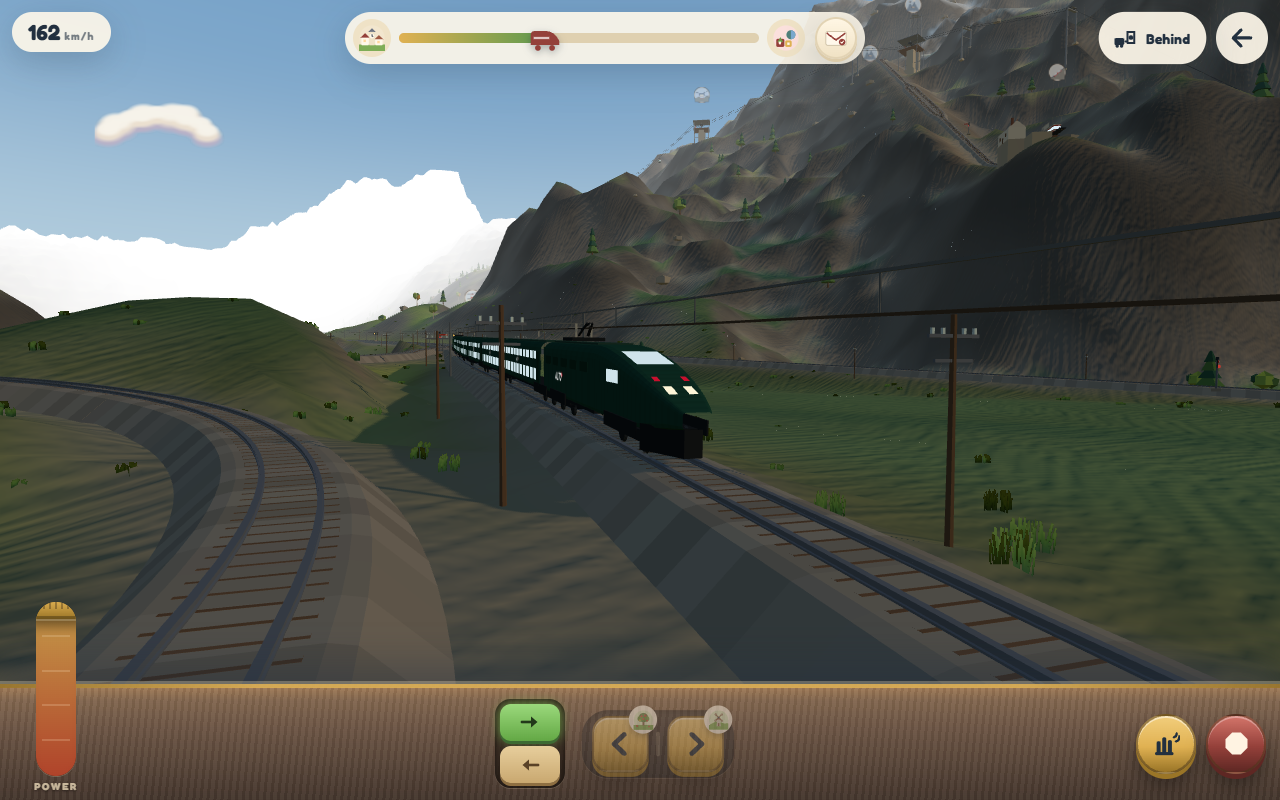
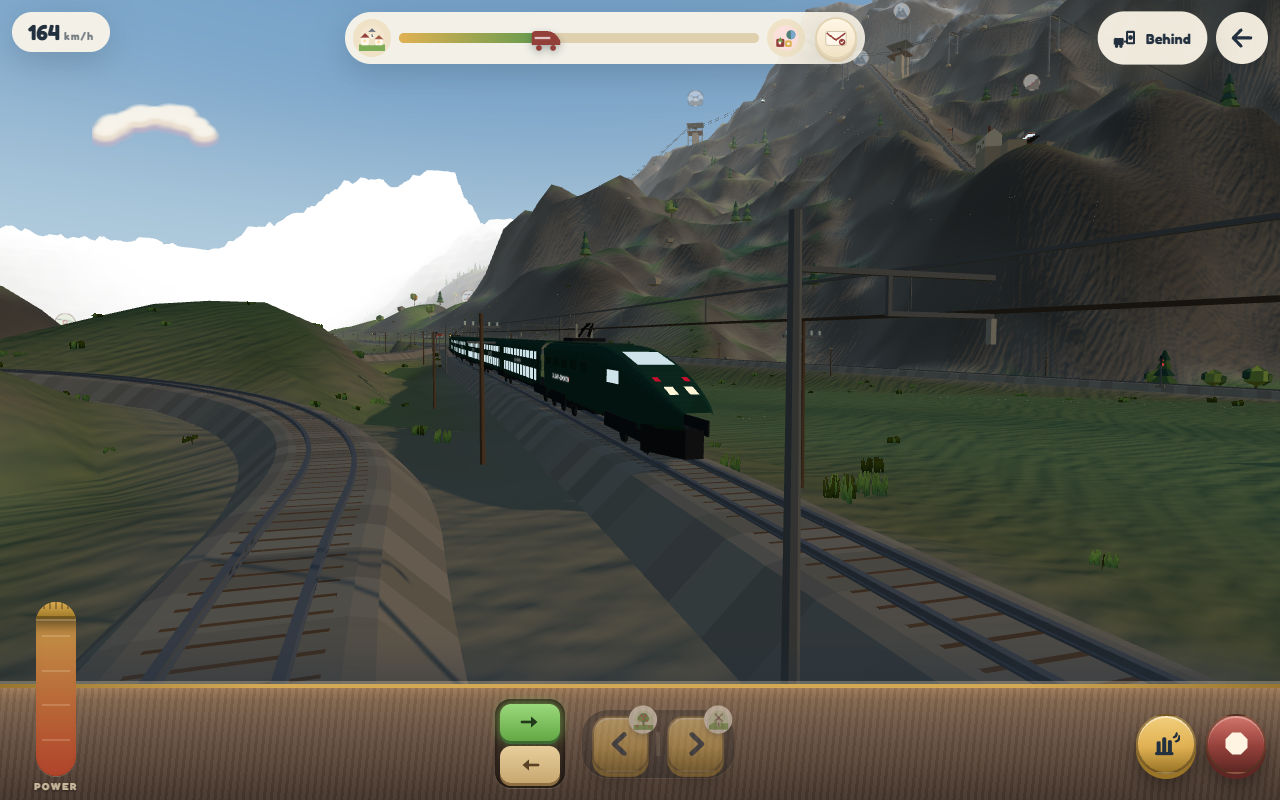
Bullet train: the Calgary–Edmonton, 320 km/h, closed body ends, depot facing
Renamed from Alto to Calgary–Edmonton on every flank, in the depot and the
README. The body loft's own end caps were wound inward for this profile, so
the flat rear of each power car was see-through; capped again with the
winding checked against the way each end faces. Service speed raised to the
Avelia's 320 km/h, with the brake, pull, drag and curve tolerance set to
match, and the sheep hold range now scales with the braking distance. In the
depot the power cars face away from the coaches, and the mirror applies to
them alone.

diff --git a/index.html b/index.html
@@ -7709,10 +7709,11 @@ class Props {
 const BULLET = {
   power: 22.15, end: 20.8, mid: 18.7, width: 2.9, roof: 4.1, floor: 0.95,
   nose: 9.5, wheel: 0.5, axle: 1.5, pbogie: 6.4,
-  vmax: 72,               // m/s — 259 km/h on the straights; the bends set the rest
-  pull: 1.3, brake: 4.2, brakeRate: 2.2, latAccel: 5.0,
+  vmax: 88.9,             // m/s — 320 km/h, the Avelia's service speed; the bends set the rest
+  pull: 1.8, brake: 4.5, brakeRate: 3.0, latAccel: 12.0,
   green: '#1C4A3C', dark: '#143A2E', roofC: '#2A4A40', frame: '#22262B', win: '#CFE3EA',
 };
+const BULLET_NAME = 'CALGARY–EDMONTON';
 const BULLET_CONSIST = ['bpower', 'bend', 'bmid', 'bmid', 'bmid', 'bmid', 'bend', 'bpower'];
 const BULLET_TYPES = {
   bpower: { name: 'Power car', len: BULLET.power },
@@ -7754,6 +7755,20 @@ function bulletBody(mb, L, col, nose) {
     profAt.push(bulletSection(w, f, r));
   }
   mb.extrudeVar(path, k => profAt[k], col, k => 0.94 + 0.08 * (k % 2));
+  /* The loft caps its ends for a clockwise profile; this profile is wound the
+     other way, so cap them again here with the winding checked against the
+     way each end faces — the rear end, flat and facing the coaches, was open. */
+  const cap = (k, dirZ) => {
+    const ring = profAt[k].map(p => new THREE.Vector3(-p[0], p[1], path[k].z));
+    const ctr = new THREE.Vector3(0, (BULLET.floor + BULLET.roof) / 2, path[k].z);
+    const n = new THREE.Vector3().crossVectors(ring[1].clone().sub(ctr), ring[2].clone().sub(ctr));
+    const flip = n.z * dirZ < 0;
+    for (let i = 0; i < ring.length; i++) {
+      const j = (i + 1) % ring.length;
+      if (flip) mb.quad(ctr, ring[i], ring[j], ring[j], col); else mb.quad(ctr, ring[j], ring[i], ring[i], col);
+    }
+  };
+  cap(0, -1); cap(N, 1);
 }
 
 /* a square rod from a to b, for the pantograph arms */
@@ -7837,7 +7852,7 @@ function buildBulletCar(type, opts = {}) {
     mb.box(0, headY, pz - 0.6, 1.5, 0.06, 0.25, frameC, 0);
     mb.box(0, headY + 0.045, pz - 0.6, 1.5, 0.03, 0.09, new THREE.Color('#B0B4B8'), 0);
     // the wordmark on each flank
-    for (const s of [-1, 1]) marks.push({ x: s * (W + 0.015), y: F + 1.2, z: -L / 2 + 5.0, side: s, w: 2.4 });
+    for (const s of [-1, 1]) marks.push({ x: s * (W + 0.015), y: F + 1.2, z: -L / 2 + 5.4, side: s, w: 5.2 });
   } else {
     // double deck: two bands of windows each side, pillars between, doors at the ends
     for (const s of [-1, 1]) {
@@ -7848,7 +7863,7 @@ function buildBulletCar(type, opts = {}) {
         for (let z = -L / 2 + 1.6; z <= L / 2 - 1.6 + 1e-6; z += 1.65) mb.box(x, (y0 + y1) / 2, z, 0.05, y1 - y0 + 0.08, 0.16, green, 0);
       }
       for (const z of [-L / 2 + 0.85, L / 2 - 0.85]) mb.box(x, F + 1.3, z, 0.05, 2.3, 0.95, dark, 0);
-      marks.push({ x, y: F + 1.63, z: 0, side: s, w: 1.6 });
+      marks.push({ x, y: F + 1.6, z: 0, side: s, w: 3.8 });
     }
     // the bogie at the forward pivot is shared with the car in front
     bulletBogie(mb, L / 2, frameC); bogies.push(L / 2);
@@ -7859,17 +7874,17 @@ function buildBulletCar(type, opts = {}) {
   return { mb, glow, marks, len: L, wb: power ? 2 * BULLET.pbogie : L, bogies };
 }
 
-/* "ALTO" with its maple leaf, drawn once to a canvas and used on every flank */
+/* the name, with the maple leaf, drawn once to a canvas and used on every flank */
 let _wordmarkTex = null;
 function bulletWordmarkTexture() {
   if (_wordmarkTex) return _wordmarkTex;
-  const cv = document.createElement('canvas'); cv.width = 512; cv.height = 192;
+  const cv = document.createElement('canvas'); cv.width = 1280; cv.height = 160;
   const g = cv.getContext('2d');
-  g.clearRect(0, 0, 512, 192);
+  g.clearRect(0, 0, 1280, 160);
   g.fillStyle = '#FFFFFF'; g.textBaseline = 'middle'; g.textAlign = 'left';
-  g.font = 'italic 900 150px Fredoka, "Arial Black", system-ui, sans-serif';
-  g.fillText('ALTO', 18, 100);
-  const lx = 446, ly = 54, s = 1.9;
+  g.font = 'italic 900 112px Fredoka, "Arial Black", system-ui, sans-serif';
+  g.fillText(BULLET_NAME, 16, 84);
+  const lx = 1205, ly = 56, s = 1.55;
   g.fillStyle = '#C8102E'; g.beginPath();
   const leaf = [[0, -22], [4, -10], [12, -13], [9, -1], [20, -3], [17, 5], [23, 9], [9, 17], [11, 24], [2, 21], [2, 32], [-2, 32], [-2, 21], [-11, 24], [-9, 17], [-23, 9], [-17, 5], [-20, -3], [-9, -1], [-12, -13], [-4, -10]];
   leaf.forEach(([x, y], i) => i ? g.lineTo(lx + x * s, ly + y * s) : g.moveTo(lx + x * s, ly + y * s));
@@ -7879,10 +7894,12 @@ function bulletWordmarkTexture() {
 }
 
 /* the depot's side view of one car; px/py map metres along and up to the canvas */
-function drawBulletCar(g, type, px, py, scale) {
+function drawBulletCar(g, type, px0, py, scale, flip) {
+  const px = flip ? v => px0(-v) : px0;
   const green = BULLET.green, dark = BULLET.dark, frame = BULLET.frame, win = BULLET.win;
   const L = BULLET_TYPES[type].len, HL = L / 2, F = BULLET.floor, R = BULLET.roof;
-  const rr = (x, y, w, h, r, fill) => { g.beginPath(); if (g.roundRect) g.roundRect(x, y, w, h, r); else g.rect(x, y, w, h); g.fillStyle = fill; g.fill(); };
+  // x is px(left edge in metres); mirrored, that is the right edge
+  const rr = (x, y, w, h, r, fill) => { if (flip) x -= w; g.beginPath(); if (g.roundRect) g.roundRect(x, y, w, h, r); else g.rect(x, y, w, h); g.fillStyle = fill; g.fill(); };
   const wheel = (z) => { g.beginPath(); g.arc(px(z), py(BULLET.wheel), BULLET.wheel * scale, 0, TAU); g.fillStyle = dark; g.fill(); g.beginPath(); g.arc(px(z), py(BULLET.wheel), BULLET.wheel * 0.55 * scale, 0, TAU); g.fillStyle = '#6E7583'; g.fill(); };
   const bog = type === 'bpower' ? [-BULLET.pbogie, BULLET.pbogie] : type === 'bend' ? [-HL + 0.4, HL - 0.4] : [HL - 0.4];
   for (const b of bog) { rr(px(b - 1.9), py(1.0), 3.8 * scale, 0.5 * scale, 2, frame); for (const a of [-BULLET.axle, BULLET.axle]) wheel(b + a); }
@@ -7904,9 +7921,9 @@ function drawBulletCar(g, type, px, py, scale) {
     g.strokeStyle = frame; g.lineWidth = Math.max(1.5, 0.09 * scale);
     g.beginPath(); g.moveTo(px(-HL + 5.0), py(R + 0.3)); g.lineTo(px(-HL + 6.5), py(R + 1.1)); g.lineTo(px(-HL + 4.4), py(R + 1.85)); g.stroke();
     rr(px(-HL + 3.6), py(R + 1.9), 1.5 * scale, 0.08 * scale, 1, frame);
-    g.fillStyle = '#FFF6D8'; g.fillRect(px(HL - 1.9), py(F + 1.55), 0.7 * scale, 0.25 * scale);
-    g.fillStyle = '#fff'; g.font = 'italic 900 ' + Math.max(8, 0.95 * scale) + 'px Fredoka, "Arial Black", sans-serif'; g.textBaseline = 'middle';
-    g.fillText('ALTO', px(-HL + 3.4), py(F + 1.2));
+    rr(px(HL - 1.9), py(F + 1.55), 0.7 * scale, 0.25 * scale, 1, '#FFF6D8');
+    g.fillStyle = '#fff'; g.font = 'italic 900 ' + Math.max(7, 0.5 * scale) + 'px Fredoka, "Arial Black", sans-serif'; g.textBaseline = 'middle'; g.textAlign = 'center';
+    g.fillText(BULLET_NAME, px(-HL + 5.4), py(F + 1.2)); g.textAlign = 'left';
   } else {
     rr(px(-HL + 0.3), py(F + 0.1), (L - 0.6) * scale, 0.2 * scale, 1, frame);
     rr(px(-HL), py(R), L * scale, (R - F) * scale, 4, green);
@@ -7917,8 +7934,8 @@ function drawBulletCar(g, type, px, py, scale) {
       for (let z = -HL + 1.6; z <= HL - 1.6 + 1e-6; z += 1.65) g.fillRect(px(z) - Math.max(0.5, 0.08 * scale), py(y1), Math.max(1, 0.16 * scale), (y1 - y0) * scale);
     }
     for (const z of [-HL + 0.85, HL - 0.85]) rr(px(z - 0.47), py(F + 2.45), 0.95 * scale, 2.3 * scale, 1, dark);
-    g.fillStyle = '#fff'; g.font = 'italic 900 ' + Math.max(8, 0.6 * scale) + 'px Fredoka, "Arial Black", sans-serif'; g.textBaseline = 'middle';
-    g.fillText('ALTO', px(-1.1), py(F + 1.63));
+    g.fillStyle = '#fff'; g.font = 'italic 900 ' + Math.max(6, 0.36 * scale) + 'px Fredoka, "Arial Black", sans-serif'; g.textBaseline = 'middle'; g.textAlign = 'center';
+    g.fillText(BULLET_NAME, px(0), py(F + 1.6)); g.textAlign = 'left';
   }
 }
 
@@ -8416,7 +8433,7 @@ class Train {
       inner.add(mesh);
       if (!b.glow.empty) inner.add(new THREE.Mesh(b.glow.geometry(), MAT.glow));
       for (const m of b.marks) {
-        const pl = new THREE.Mesh(new THREE.PlaneGeometry(m.w, m.w * 192 / 512),
+        const pl = new THREE.Mesh(new THREE.PlaneGeometry(m.w, m.w * 160 / 1280),
                                   new THREE.MeshBasicMaterial({ map: tex, transparent: true, fog: true }));
         pl.position.set(m.x, m.y, m.z);
         pl.rotation.y = m.side > 0 ? Math.PI / 2 : -Math.PI / 2;
@@ -8864,13 +8881,13 @@ class Train {
       a -= grade * 11.5;                        // hills actually slow you down
       /* rolling resistance — and for the bullet train the air, which is what
          really limits it: drag grows with the square of the speed */
-      a -= this.bullet ? this.speed * (0.004 + 0.00011 * this.speed) : 0.035 * this.speed;
+      a -= this.bullet ? this.speed * (0.003 + 0.00009 * this.speed) : 0.035 * this.speed;
       if (this.throttle === 0) a = Math.min(a, -0.55);
     }
     /* The signal's own brake. This is applied whatever the driver is doing with
        the regulator, and with more authority than the curve above assumes, so
        the train always comes to a stand at a signal it has not answered. */
-    if (this.speed > cap) a = Math.min(a, cap <= 0.05 ? -4.5 : -3.6);
+    if (this.speed > cap) a = Math.min(a, this.bullet ? -BULLET.brake : cap <= 0.05 ? -4.5 : -3.6);
     this.speed = clamp(this.speed + a * h, 0, VMAX * 1.02);
     /* Only snap to a dead stop when nothing is asking the engine to move.
        Clamping unconditionally traps the train: one frame of acceleration on a
@@ -9560,7 +9577,8 @@ class Flocks {
     /* Hold the train if sheep are on the line close ahead. They will move on
        their own; the whistle simply hurries them. */
     const wasBlocked = this.blocked;
-    this.blocked = anyOnTrack && nearest < 130;
+    const tr = ctx.get('train'), hold = Math.max(130, (tr.speed * tr.speed) / (2 * (tr.brakeRate || 1.5)) + 60);
+    this.blocked = anyOnTrack && nearest < hold;
     this.stopDistance = this.blocked ? nearest : Infinity;
     if (this.blocked && !wasBlocked) {
       ctx.events.emit('sheep:onLine', {});
@@ -11512,7 +11530,7 @@ class Play {
     const fl = this.mode === 'rail' && ctx.has('flocks') ? ctx.get('flocks') : null;
     if (fl && fl.blocked) {
       const d = fl.stopDistance;
-      limit = Math.min(limit, Math.max(0, (d - 18) * 0.16));
+      limit = Math.min(limit, Math.max(0, (d - 18) * 0.16), Math.sqrt(2 * BR * Math.max(0, d - 18)));
     }
 
     /* Rocks on the line hold the train too — but only down to a creep, so the
@@ -11926,7 +11944,7 @@ function drawVehicle(cv, type, cfg) {
   g.fillStyle = '#8A7B63';
   g.fillRect(0, railY, W, 3);
 
-  if (BULLET_TYPES[type] || (type === 'loco' && cfg.engine === 'bullet')) { drawBulletCar(g, BULLET_TYPES[type] ? type : 'bpower', px, py, scale); return; }
+  if (BULLET_TYPES[type] || (type === 'loco' && cfg.engine === 'bullet')) { drawBulletCar(g, BULLET_TYPES[type] ? type : 'bpower', px, py, scale, (type === 'loco' || type === 'bpower') && !cfg.bulletTail); return; }
   if (type === 'loco' && cfg.engine === 'diesel') {
     const HL = DIESEL.len / 2;
     rr(px(-HL), py(1.3), DIESEL.len * scale, 0.35 * scale, 1, dark);                 // frame
@@ -12429,7 +12447,7 @@ class UI {
     const eng = this.train.cfg.engine || 'steam';
     for (const b of $$('#engineSeg button')) b.setAttribute('aria-pressed', String(b.dataset.e === eng));
     $('#engineNote').textContent = eng === 'bullet'
-      ? 'The Alto: a fixed set of eight — two power cars and six double-deck coaches. It runs under the wires on the main line and goes slowly on the branches.'
+      ? 'The Calgary–Edmonton: a fixed set of eight — two power cars and six double-deck coaches, 320 km/h on the straights. It runs under the wires on the main line and goes slowly on the branches.'
       : eng === 'diesel' ? 'The diesel carries its own fuel, so it leaves the tender behind.' : '';
   }
 
@@ -12524,7 +12542,12 @@ class UI {
       }
       host.appendChild(wrap);
     };
-    if (this.train.cfg.engine === 'bullet') { for (const t2 of BULLET_CONSIST) add(t2, null); return; }
+    if (this.train.cfg.engine === 'bullet') {
+      // the leading power car faces away from the coaches, the trailing one the other way
+      BULLET_CONSIST.forEach((t2, i) => { this.train.cfg.bulletTail = i === BULLET_CONSIST.length - 1; add(t2, null); });
+      this.train.cfg.bulletTail = false;
+      return;
+    }
     add('loco', null);
     const dieselNow = this.train.cfg.engine === 'diesel';
     this.train.cfg.cars.forEach((c, i) => { if (!(dieselNow && c === 'tender')) add(c, i); });

diff --git a/README.md b/README.md
@@ -16,12 +16,13 @@ and the **funicular**, a rack-and-cable incline up the face of the mountain with
 pass each other half way. A silver-and-blue diesel works the main line on its own, and both
 trains keep clear of each other; you can also pick the diesel as your own engine in the depot.
 
-And a **bullet train**: an eight-car high-speed set in the deep green of Alto, the Toronto–Québec
-line Canada is building, modelled on the Alstom Avelia Horizon that is its likeliest train — two
+And a **bullet train**, the *Calgary–Edmonton*: an eight-car high-speed set in deep green with a
+maple leaf on every flank, modelled on the Alstom Avelia Horizon that Canada's high-speed plans are
+most likely to receive — two
 power cars with long tapered noses, six double-deck coaches on shared Jacobs bogies, pantographs
 up to a catenary strung the whole way round the main loop. It is a different kind of driving: the
 air is what holds it back, the signals come into view a kilometre and a half out because that is
-what the brakes need from 260 km/h, and every bend has its own limit, read off the line ahead.
+what the brakes need from 320 km/h, and every bend has its own limit, read off the line ahead.
 
 Every line is laid to railway rules: arcs of at least 65 m radius joined by straights and
 reverse curves, a speed limit on every bend, both rails of every branch level with the main line
@@ -57,7 +58,7 @@ no build step. Progress (stars, deliveries, your train) is saved in the browser.
 | ![The diesel on the main line](docs/screenshots/17-diesel.png) | ![The depot: the Skyway rides](docs/screenshots/18-depot-skyway.png) |
 | *The diesel, held short of the player's train at Bramble Town* | *The depot's Skyway tab: six rides, unlocked one at a time* |
 | ![The bullet train at speed on the main line](docs/screenshots/19-bullet-train.png) | ![The bullet train from above, under the wires](docs/screenshots/20-bullet-under-the-wires.png) |
-| *The Alto at 160 km/h: eight cars, two pantographs on the wire* | *Six double-deck coaches on shared bogies, the masts every fifty metres* |
+| *The Calgary–Edmonton at 160 km/h: eight cars, two pantographs on the wire* | *Six double-deck coaches on shared bogies, the masts every fifty metres* |
 
 ## How to play
 
@@ -114,5 +115,5 @@ The bullet train is built in code like everything else, to published dimensions 
 rather than from a downloaded model: Alto's own renderings and route brief
 ([altotrain.ca](https://www.altotrain.ca/)), Alstom's Avelia Horizon / TGV M (power car 22.15 m,
 end trailer 21.8 m, intermediate trailers 18.7 m, 2.9 m wide, 320 km/h, articulated on Jacobs
-bogies, two pantographs per power car) and the Euroduplex it descends from. The livery — deep
-green, white wordmark, red maple leaf — is Alto's; the maple leaf is drawn by hand.
+bogies, two pantographs per power car) and the Euroduplex it descends from. The deep green, white
+wordmark and red maple leaf follow the Alto renderings; the leaf is drawn by hand.
